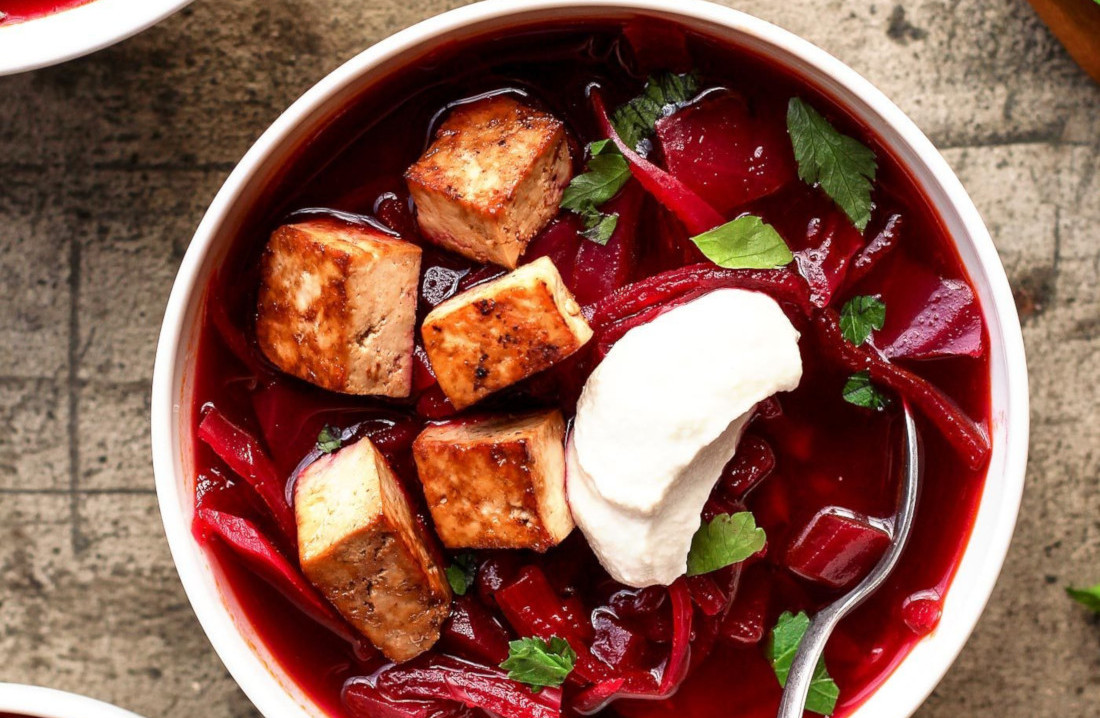
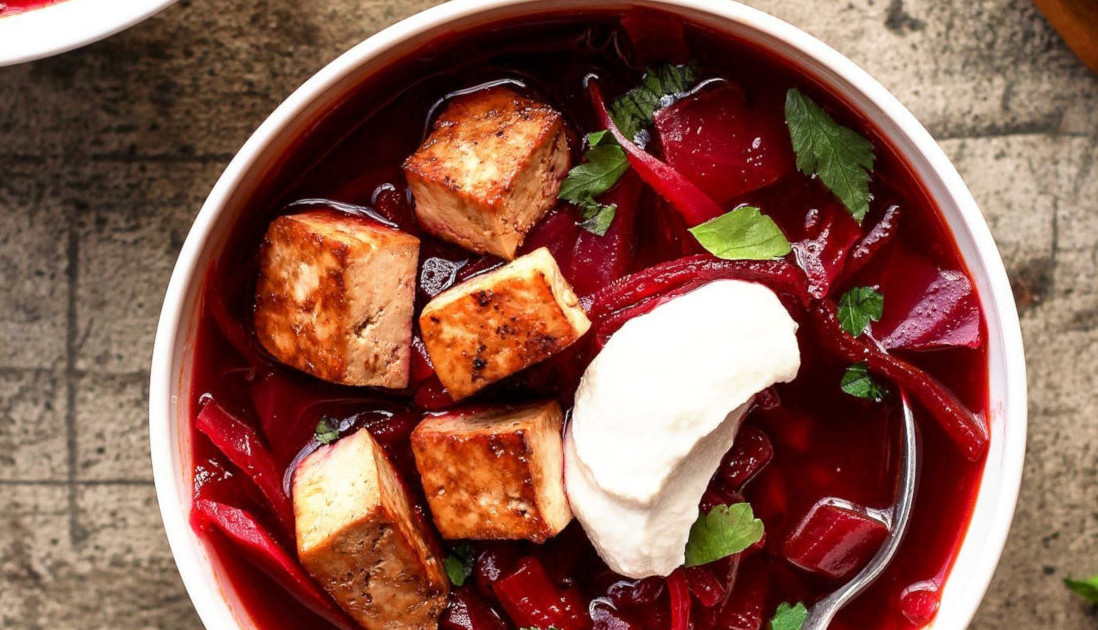
end day carousel done

diff --git a/index.html b/index.html
@@ -41,17 +41,17 @@
 
             <main class="container col-xl-12">
 <!--                 <img src="img/borscht.jpg" class="img-fluid container-fluid" alt="Logo Site">
- -->                <section class="col-10 mx-auto order-2 text-center" >
+ -->                <section class="col-10 mx-auto order-2 text-center d-block" id="carouselID" >
                             <div id="carouselMainPage" class="carousel slide" data-ride="carousel">
                                     <div class="carousel-inner">
                                       <div class="carousel-item active">
-                                        <img class="d-block w-100" src="img/carousel/blinis.jpg" alt="Blini slide">
+                                        <img class="d-block w-100 h-100 carouselBorder img-responsive" src="img/carousel/blinis.jpg" alt="Blini slide">
                                       </div>
                                       <div class="carousel-item">
-                                        <img class="d-block w-100" src="img/carousel/tofu_borsch.jpg" alt="Borsch slide">
+                                        <img class="d-block w-100 h-100 carouselBorder img-responsive" src="img/carousel/tofu_borsch.jpg" alt="Borsch slide">
                                       </div>
                                       <div class="carousel-item">
-                                        <img class="d-block w-100" src="img/carousel/mushroom-caviar.jpg" alt="Caviar slide">
+                                        <img class="d-block w-100 h-100 carouselBorder img-responsive" src="img/carousel/mushroom-caviar.jpg" alt="Caviar slide">
                                       </div>
                                     </div>
                             </div>

diff --git a/style.css b/style.css
@@ -15,6 +15,7 @@ body {
 
 header {
     border: 2px solid blue;
+    margin: 2px;
 }
 
 img {
@@ -101,10 +102,11 @@ footer {
     border: 1px solid black;
 }
 
-#carouselMainPage {
-    border-radius: 5px;
-    border: 10px solid black;
+.carouselBorder {
+    border-radius: 10px;
 }
 
+#carouselID {
 
+}
 
